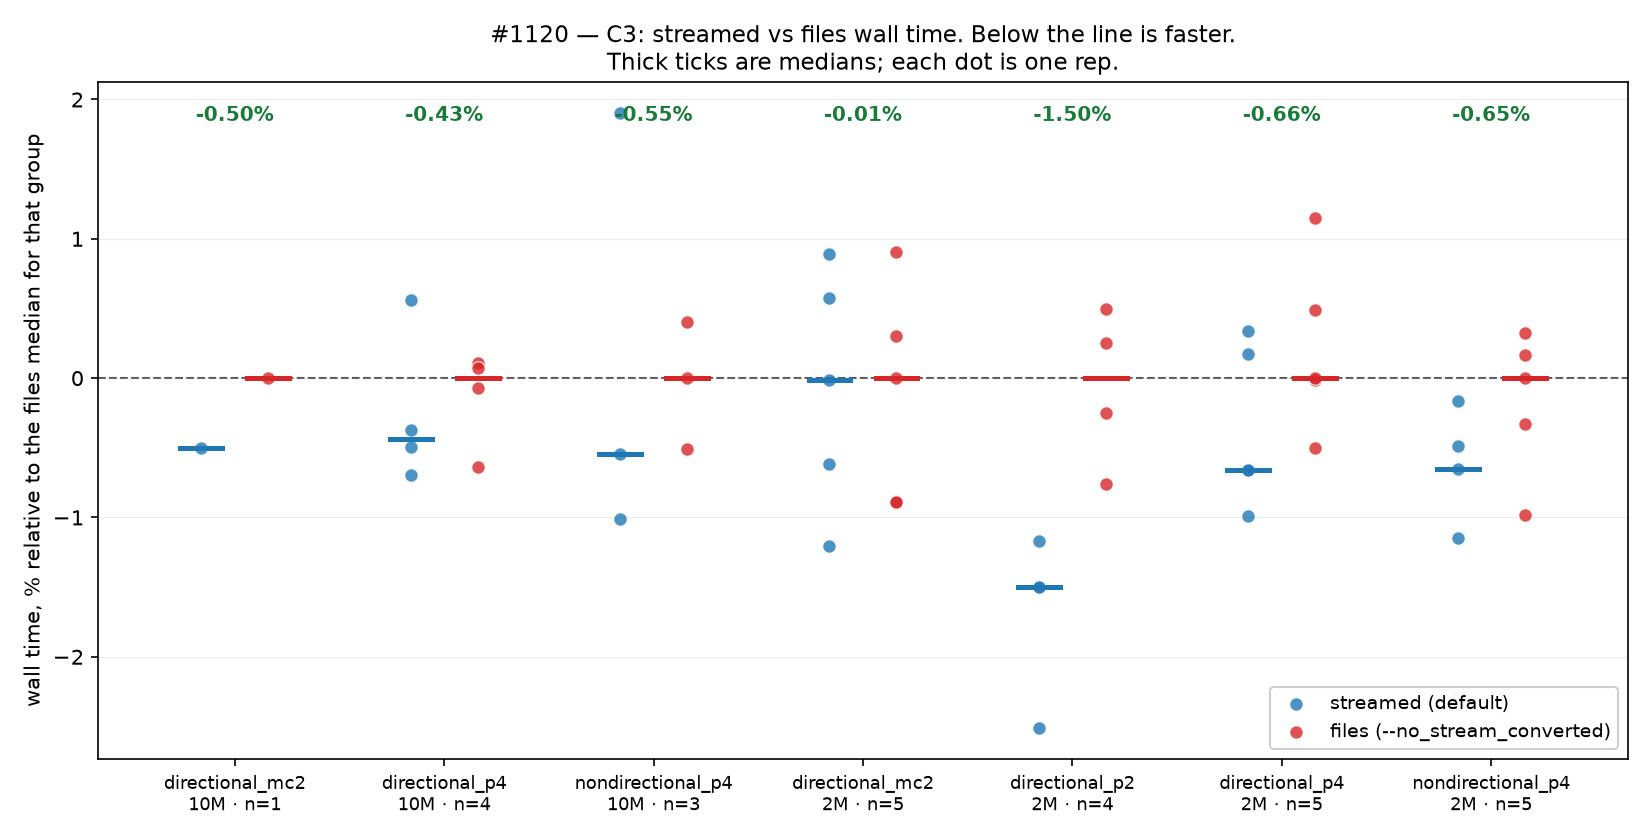
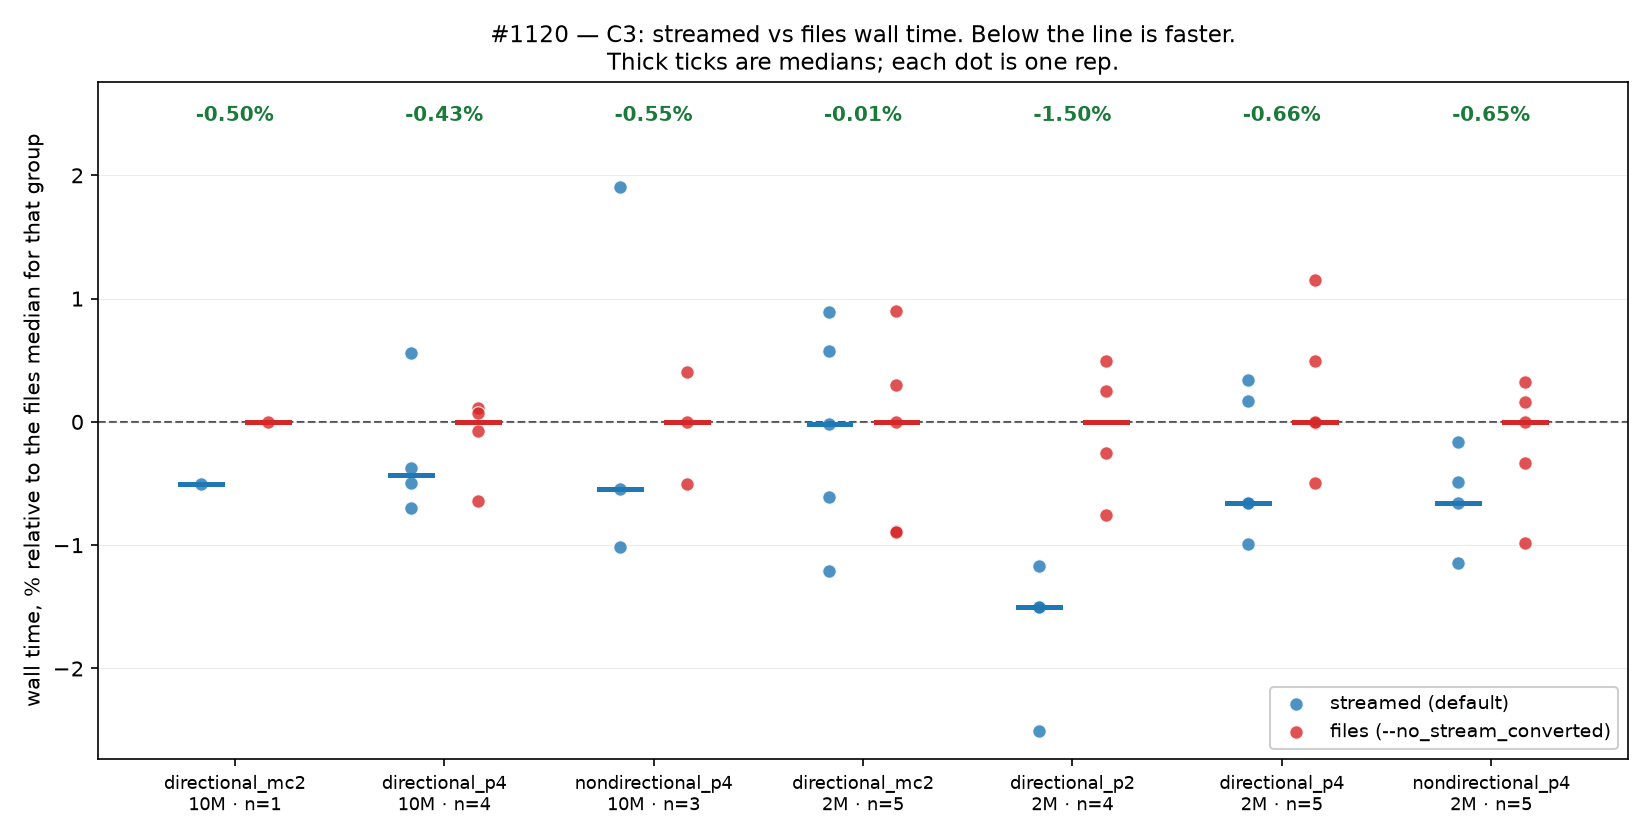
validation: headroom in the C3 chart so labels clear the data

diff --git a/plans/09112026_stream-converted/fullscale/harness/plot_c3.py b/plans/09112026_stream-converted/fullscale/harness/plot_c3.py
@@ -51,6 +51,9 @@ for i, r in enumerate(rows):
     labels.append(f"{r['shape'].replace('pe_','')}\n{r['scale']} · n={r['n']}")
 
 ax.axhline(0, color="#555", lw=1, ls="--", zorder=1)
+# headroom so the per-group delta labels never sit on top of a data point
+lo, hi = ax.get_ylim()
+ax.set_ylim(lo, hi + (hi - lo) * 0.13)
 ax.set_xticks(range(len(rows)))
 ax.set_xticklabels(labels, fontsize=8.5)
 ax.set_ylabel("wall time, % relative to the files median for that group")
